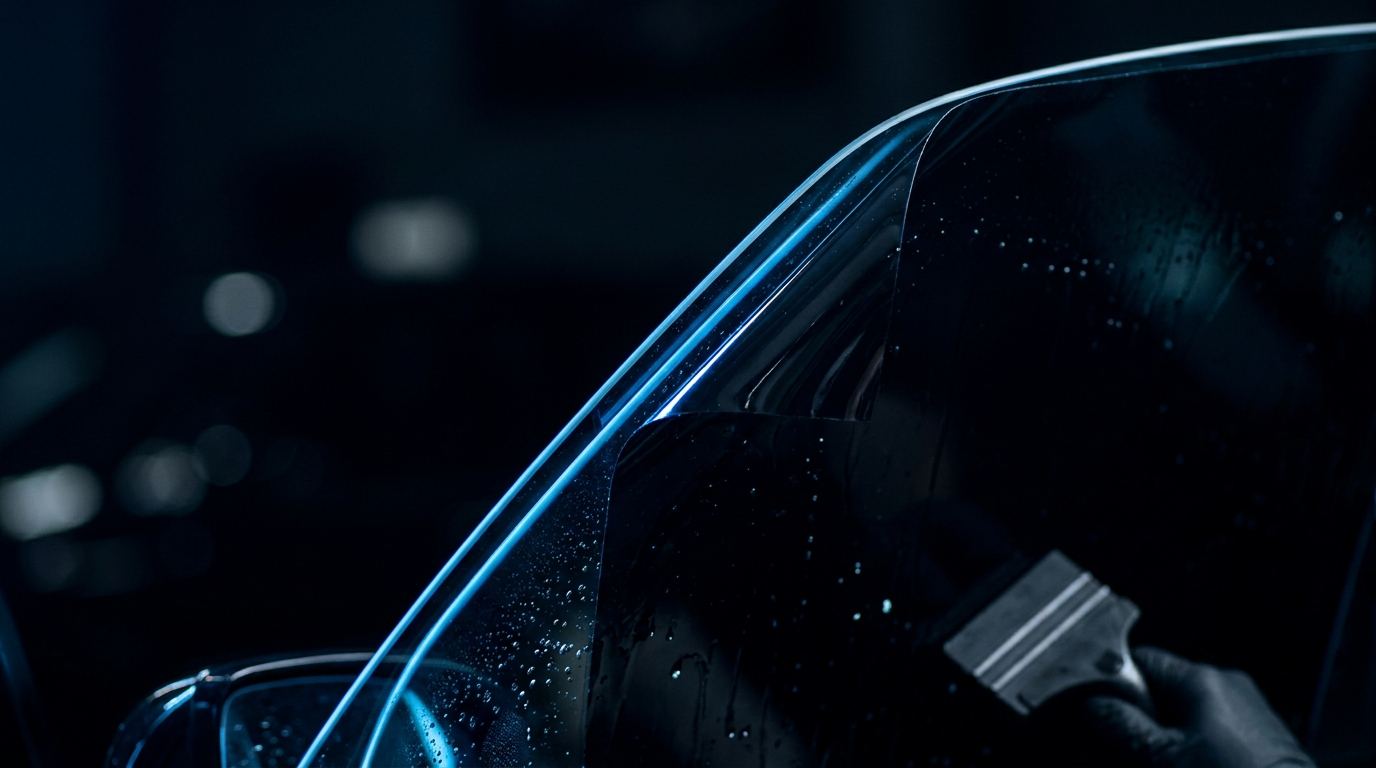
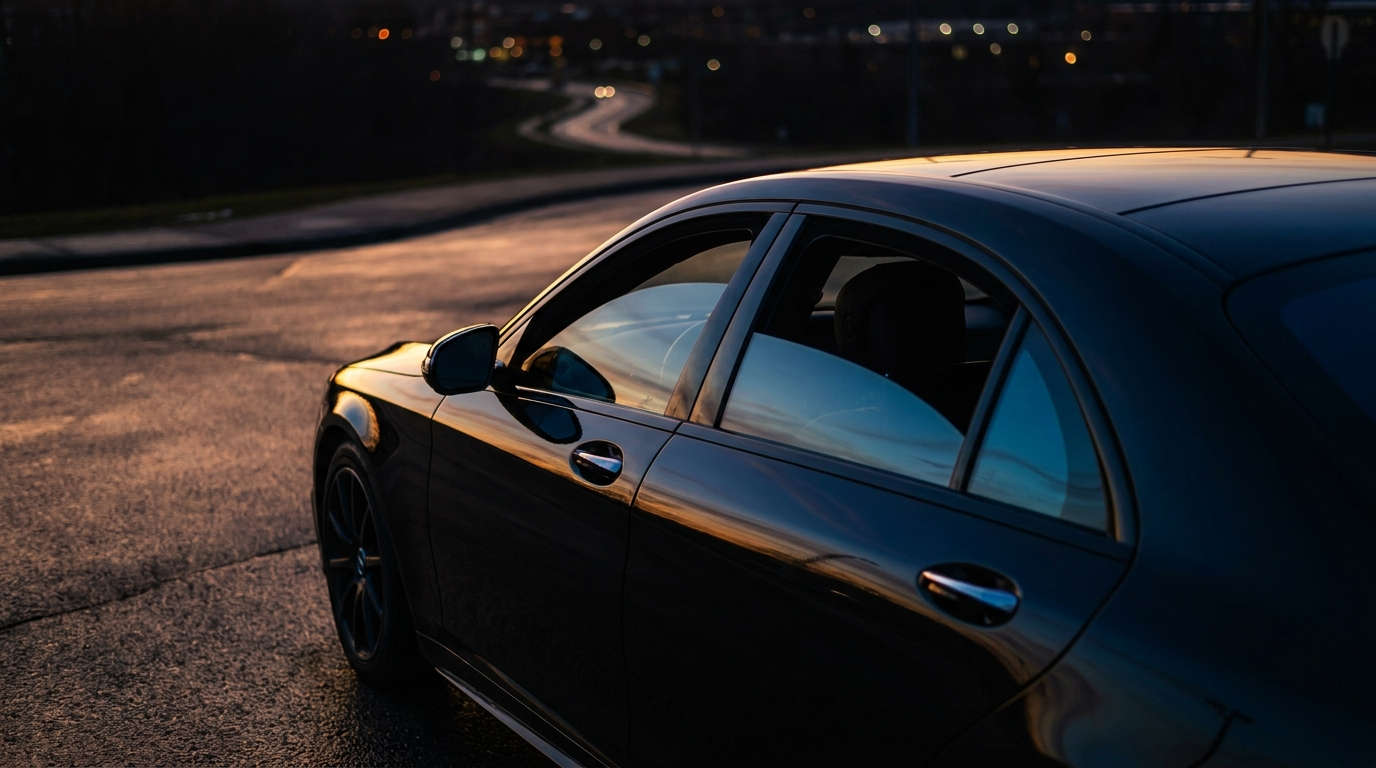
Switch Reveal to Framer Motion + regen Elite (mud tire) and All Out (visible tint) covers
- Reveal animation was using GSAP ScrollTrigger which doesn't sync with Lenis smooth scroll by default, leaving content stuck at opacity:0 on iPad/mobile viewports.
- Switched Reveal to Framer Motion's whileInView (uses IntersectionObserver, doesn't depend on scroll driver) — verified on 390/810/1440 in Playwright after scrolling.
- Regenerated case-elite.jpg with an aggressive mud-terrain tire on a lifted truck per Dayne feedback (the street tire wasn't on-brand).
- Regenerated case-allout.jpg as a clear black car + half-tinted window scene so the subject is unmistakable.

diff --git a/src/components/Reveal.tsx b/src/components/Reveal.tsx
@@ -1,60 +1,67 @@
 'use client'
 
-import { useRef, ReactNode } from 'react'
-import { useGSAP } from '@gsap/react'
-import gsap from 'gsap'
-import { ScrollTrigger } from 'gsap/ScrollTrigger'
-
-if (typeof window !== 'undefined') {
-  gsap.registerPlugin(ScrollTrigger, useGSAP)
-}
+import { ReactNode, Children } from 'react'
+import { motion, type HTMLMotionProps } from 'framer-motion'
 
 interface RevealProps {
   children: ReactNode
   delay?: number
   y?: number
   duration?: number
-  as?: keyof JSX.IntrinsicElements
+  as?: 'div' | 'section' | 'p' | 'span' | 'ul' | 'ol' | 'header' | 'article' | 'aside'
   className?: string
   stagger?: boolean
 }
 
+const EASE: [number, number, number, number] = [0.22, 1, 0.36, 1]
+
 export default function Reveal({
   children,
   delay = 0,
-  y = 30,
-  duration = 0.8,
-  as: Tag = 'div',
+  y = 24,
+  duration = 0.7,
+  as = 'div',
   className = '',
   stagger = false,
 }: RevealProps) {
-  const ref = useRef<HTMLElement>(null)
+  // motion.div, motion.section, motion.p, etc. all exist on motion
+  const MotionTag = motion[as] as React.ComponentType<HTMLMotionProps<typeof as>>
 
-  useGSAP(
-    () => {
-      if (!ref.current) return
-      const target = stagger ? ref.current.children : ref.current
-      gsap.from(target, {
-        opacity: 0,
-        y,
-        duration,
-        delay,
-        stagger: stagger ? 0.08 : 0,
-        ease: 'power3.out',
-        scrollTrigger: {
-          trigger: ref.current,
-          start: 'top 85%',
-          once: true,
-        },
-      })
-    },
-    { scope: ref }
-  )
+  if (stagger) {
+    const items = Children.toArray(children)
+    return (
+      <MotionTag
+        className={className}
+        initial="hidden"
+        whileInView="visible"
+        viewport={{ once: true, amount: 0.15, margin: '0px 0px -10% 0px' }}
+        transition={{ staggerChildren: 0.08, delayChildren: delay }}
+        variants={{ hidden: {}, visible: {} }}
+      >
+        {items.map((child, i) => (
+          <motion.div
+            key={i}
+            variants={{
+              hidden: { opacity: 0, y },
+              visible: { opacity: 1, y: 0, transition: { duration, ease: EASE } },
+            }}
+          >
+            {child}
+          </motion.div>
+        ))}
+      </MotionTag>
+    )
+  }
 
   return (
-    // @ts-expect-error dynamic tag
-    <Tag ref={ref} className={className}>
+    <MotionTag
+      className={className}
+      initial={{ opacity: 0, y }}
+      whileInView={{ opacity: 1, y: 0 }}
+      viewport={{ once: true, amount: 0.15, margin: '0px 0px -10% 0px' }}
+      transition={{ duration, delay, ease: EASE }}
+    >
       {children}
-    </Tag>
+    </MotionTag>
   )
 }